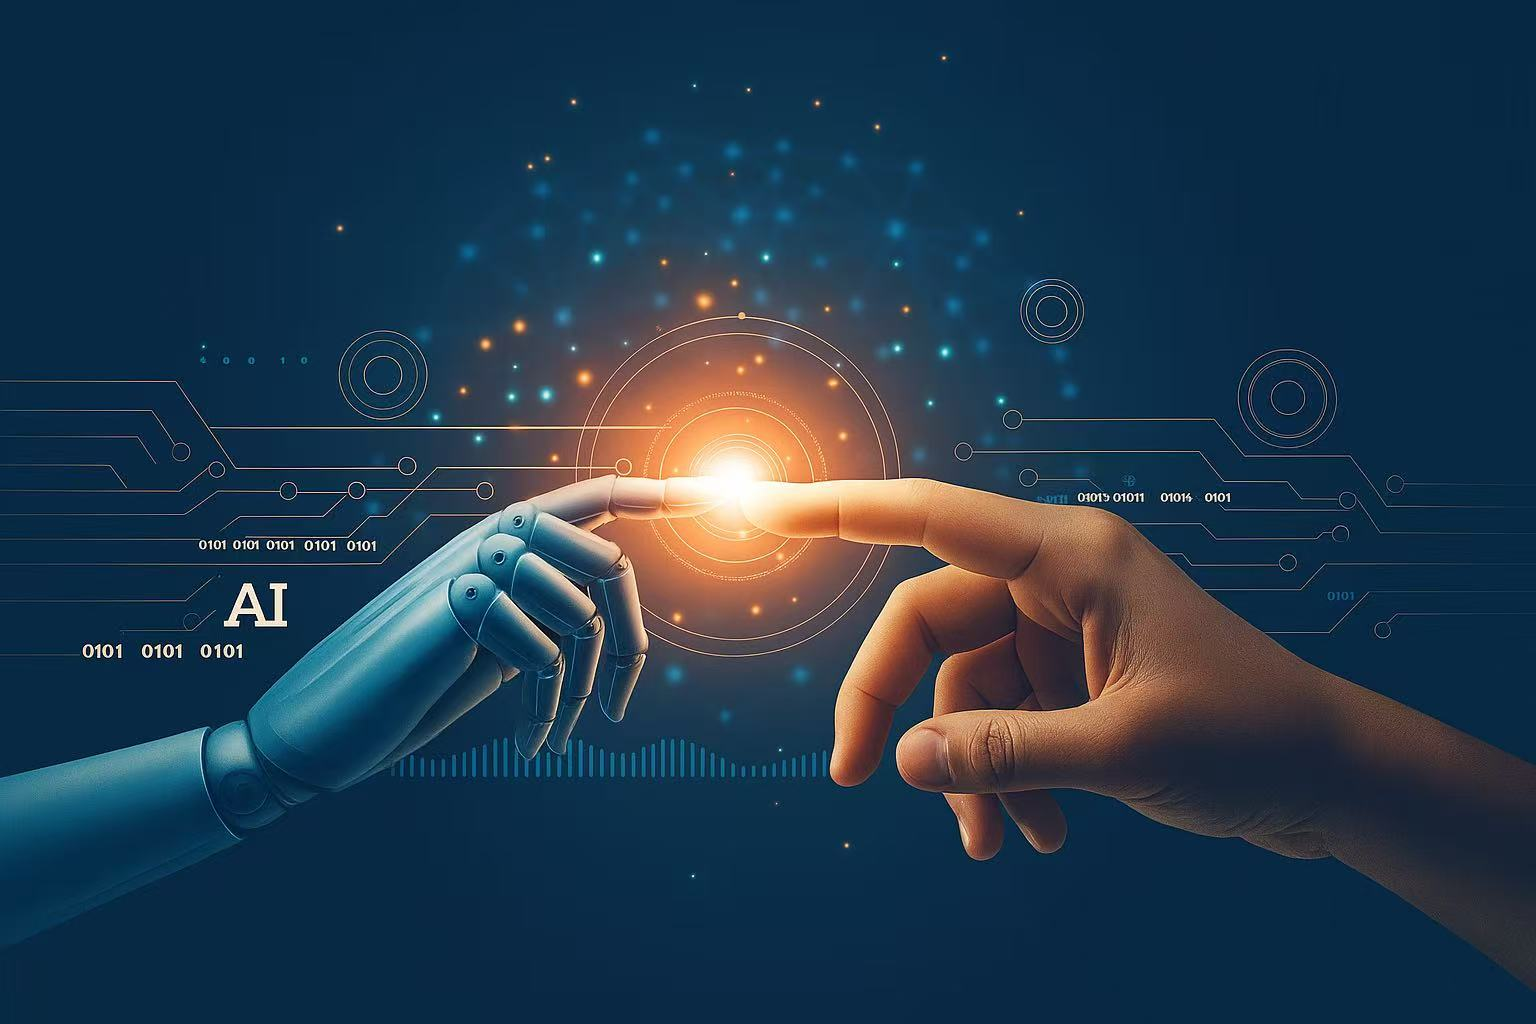
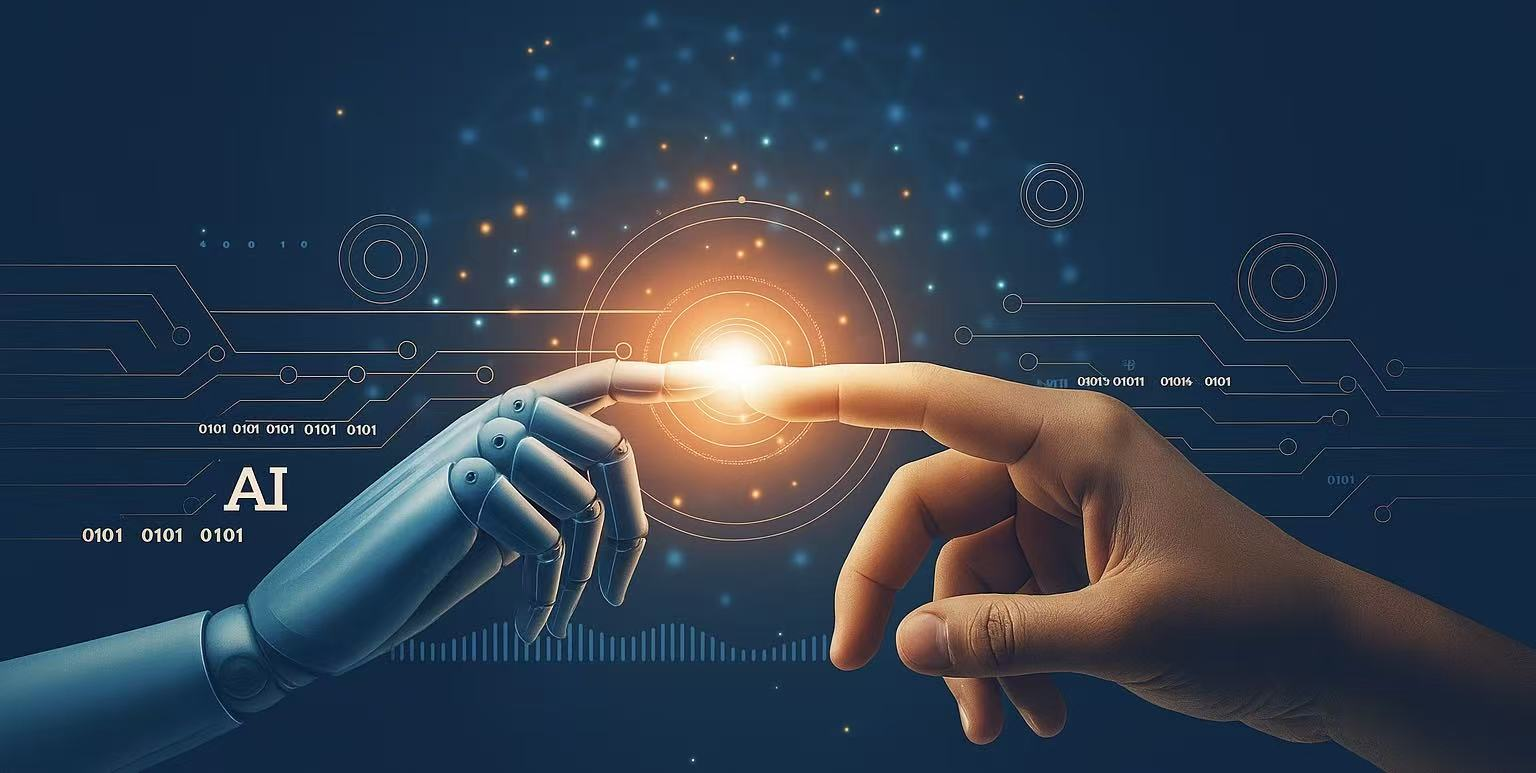
update

diff --git a/css/general.css b/css/general.css
@@ -246,7 +246,7 @@ color: #ECEBEB;
 	padding-top: 50px; /* If you're making other pages, make sure there is 50px of padding to make sure the navbar doesn't overlap content! */
 	padding-bottom: 50px;
 	color: #fdf9ff;
-	background: url(../img/intro/intro5.jpg) no-repeat center center;
+	background: url(../img/intro/intro7.jpg) no-repeat center center;
 	background-size: cover;
 	text-align: center;
 }
